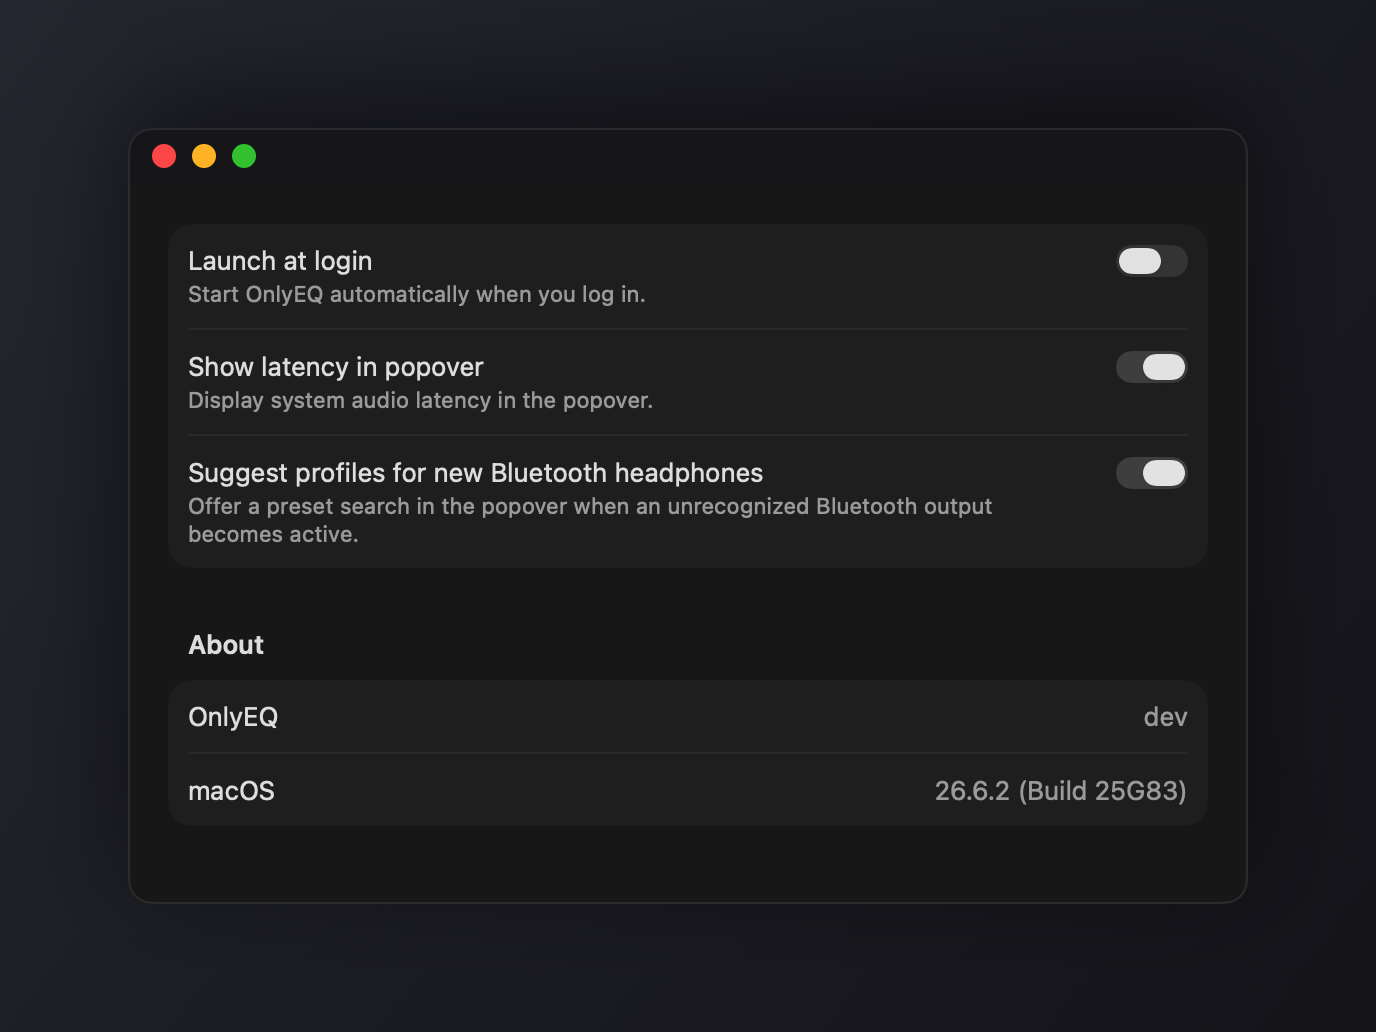
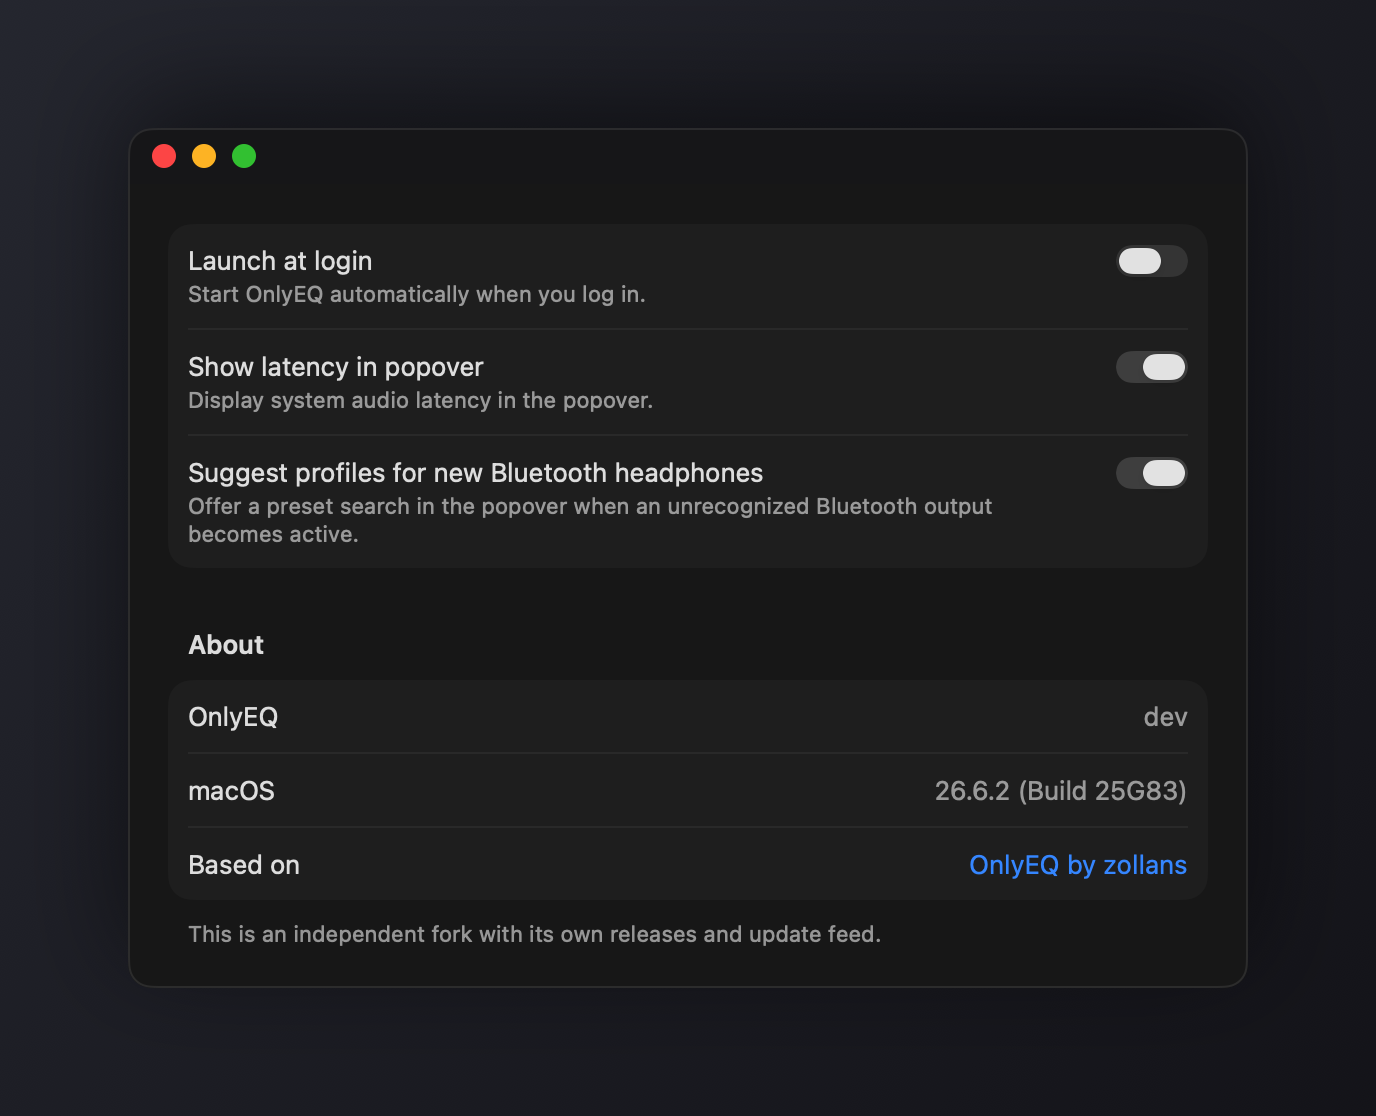
fix: polish the band list, Adjust pane, and About section (1.4.11) (#47)
Add Band drops the new band into the widest gap between the existing
bands on the log axis instead of stacking at 1 kHz. In the Adjust pane
the readouts align on their unit, Reset sits beside the sliders, an
arrow key moves a slider one whole step, and Strength reads "Off" at
zero like the boost fader. The link to the original project in Settings
takes the system link colour.

diff --git a/Sources/OnlyEQ/UI/EditorView.swift b/Sources/OnlyEQ/UI/EditorView.swift
@@ -401,7 +401,7 @@ struct EditorView: View {
 
     private var addBandRow: some View {
         Button {
-            addBand(EQBand(type: .peak, frequency: 1000, gain: 0, q: 1.41))
+            addBand(EQBand(type: .peak, frequency: EQBand.openFrequency(among: state.preset.bands), gain: 0, q: 1.41))
         } label: {
             Label("Add Band", systemImage: "plus")
                 .font(.caption)
@@ -413,7 +413,7 @@ struct EditorView: View {
         }
         .buttonStyle(.plain)
         .disabled(bandLimitReached)
-        .help(bandLimitReached ? "32 bands maximum" : "Add band")
+        .help(bandLimitReached ? "32 bands maximum" : "Add a band in the widest gap between bands")
         .accessibilityLabel("Add band")
     }
 
@@ -516,16 +516,16 @@ struct EditorView: View {
                           actionName: "Change Tilt", format: Self.signedDecibels,
                           help: "Tips the whole response about 1 kHz: up brightens, down warms")
                 adjustRow("Strength", value: strengthPercent, range: 0...100, step: 5,
-                          actionName: "Change Strength", format: { String(format: "%.0f%%", $0) },
+                          actionName: "Change Strength", format: Self.strengthPercentage,
                           help: "How much of the preset's correction is applied")
             }
             .frame(maxWidth: 520)
-            Spacer(minLength: 0)
             Button("Reset") {
                 state.recordingUndo("Reset Adjustments", undoManager) { state.preset.adjustment = .neutral }
             }
             .disabled(state.preset.adjustment.isNeutral)
             .help("Back to the preset as published")
+            Spacer(minLength: 0)
         }
         .controlSize(.small)
         .padding(.horizontal, 24)
@@ -542,8 +542,16 @@ struct EditorView: View {
         value == 0 ? "0.0 dB" : String(format: "%+.1f dB", value)
     }
 
+    /// Reads "Off" at zero, like the boost fader, since none of the bands
+    /// are heard.
+    private static func strengthPercentage(_ value: Double) -> String {
+        value == 0 ? "Off" : String(format: "%.0f%%", value)
+    }
+
     /// A drag is one undo step, registered when the knob is released; a
-    /// keyboard step registers on its own.
+    /// keyboard step registers on its own. The slider's own keyboard
+    /// increment is finer than a step, so a key press moves one step in its
+    /// direction rather than rounding back to where it was.
     private func adjustRow(_ label: String, value: Binding<Double>, range: ClosedRange<Double>, step: Double,
                            actionName: String, format: @escaping (Double) -> String, help: String) -> some View {
         HStack(spacing: 12) {
@@ -555,7 +563,12 @@ struct EditorView: View {
                 value: Binding(
                     get: { value.wrappedValue },
                     set: { updated in
-                        let stepped = (updated / step).rounded() * step
+                        let current = value.wrappedValue
+                        var stepped = (updated / step).rounded() * step
+                        if adjustDragStart == nil, stepped == current, updated != current {
+                            stepped = current + (updated > current ? step : -step)
+                        }
+                        stepped = min(max(stepped, range.lowerBound), range.upperBound)
                         if adjustDragStart == nil {
                             state.recordingUndo(actionName, undoManager) { value.wrappedValue = stepped }
                         } else {
@@ -580,7 +593,7 @@ struct EditorView: View {
             .accessibilityValue(format(value.wrappedValue))
             Text(format(value.wrappedValue))
                 .font(.subheadline.weight(.medium).monospacedDigit())
-                .frame(width: 64, alignment: .leading)
+                .frame(width: 64, alignment: .trailing)
         }
         .help(help)
     }

diff --git a/Sources/OnlyEQ/TestRunner.swift b/Sources/OnlyEQ/TestRunner.swift
@@ -599,6 +599,13 @@ enum TestRunner {
         let old = try JSONDecoder().decode(EQPreset.self, from: Data(legacy.utf8))
         expect(old.adjustment.isNeutral, "a preset saved without an adjustment decodes as neutral")
 
+        expect(EQBand.openFrequency(among: []) == 1000, "an empty preset opens at 1 kHz")
+        expect(EQBand.openFrequency(among: [EQBand(frequency: 100), EQBand(frequency: 10000)]) == 1000,
+               "a new band centres the widest gap")
+        expect(EQBand.openFrequency(among: [EQBand(frequency: 1000)]) == 141, "the widest gap can be below the bands")
+        let crowded = [100.0, 200, 400, 800, 1600, 3200, 6400, 12800].map { EQBand(frequency: $0) }
+        expect(near(EQBand.openFrequency(among: crowded), 45, 1), "a crowded preset opens at its low end")
+
         MainActor.assumeIsolated {
             AppState.screenshotMode = true  // no engine, no persistence
             let state = AppState.shared

diff --git a/Sources/OnlyEQ/Models/EQModels.swift b/Sources/OnlyEQ/Models/EQModels.swift
@@ -57,6 +57,19 @@ struct EQBand: Identifiable, Codable, Equatable, Hashable {
             && lhs.q == rhs.q && lhs.isEnabled == rhs.isEnabled
     }
 
+    /// Where a new band lands: the centre of the widest gap between the
+    /// existing bands on the log-frequency axis, so it never stacks on a
+    /// neighbour. 1 kHz for an empty preset.
+    static func openFrequency(among bands: [EQBand]) -> Double {
+        guard !bands.isEmpty else { return 1000 }
+        let edges = ([20.0, 20000] + bands.map { min(max($0.frequency, 20), 20000) }).map(log10).sorted()
+        var best = (width: 0.0, centre: 3.0)
+        for (low, high) in zip(edges, edges.dropFirst()) where high - low > best.width {
+            best = (high - low, (low + high) / 2)
+        }
+        return (pow(10, best.centre)).rounded()
+    }
+
     func hash(into hasher: inout Hasher) {
         hasher.combine(type)
         hasher.combine(frequency)

diff --git a/Sources/OnlyEQ/UI/SettingsView.swift b/Sources/OnlyEQ/UI/SettingsView.swift
@@ -86,7 +86,6 @@ struct GeneralSettings: View {
                 }
                 LabeledContent("Based on") {
                     Link("OnlyEQ by zollans", destination: URL(string: "https://github.com/zollans/OnlyEQ")!)
-                        .foregroundStyle(.secondary)
                 }
             } header: {
                 Text("About")

diff --git a/DESIGN.md b/DESIGN.md
@@ -264,10 +264,10 @@ Continuous (squircle) corners at 14 pt for the popover panel, 10 pt for the plot
 - A 5 pt radius quaternary 60 % fill with 8 by 3 pt padding and subheadline SF Mono text, showing a global shortcut chord in Settings.
 
 ### Band Row
-- A 22 pt row, 4 pt side padding, 5 pt spacing: an 8 pt colour dot, the band number in caption semibold secondary right-aligned in 16 pt, a borderless type menu in a 72 pt column, then frequency, gain, and Q as 60, 58, and 50 pt value fields (the Q field reads "Q 1.41" so it names itself), and a tertiary delete glyph. Selected: a 5 pt rounded fill of the band colour at 18 %. 50 % opacity when the band is disabled. The last row is Add Band, a plain caption button with a `plus` glyph in secondary.
+- A 22 pt row, 4 pt side padding, 5 pt spacing: an 8 pt colour dot, the band number in caption semibold secondary right-aligned in 16 pt, a borderless type menu in a 72 pt column, then frequency, gain, and Q as 60, 58, and 50 pt value fields (the Q field reads "Q 1.41" so it names itself), and a tertiary delete glyph. Selected: a 5 pt rounded fill of the band colour at 18 %. 50 % opacity when the band is disabled. The last row is Add Band, a plain caption button with a `plus` glyph in secondary; the new band lands at the centre of the widest gap between the existing bands on the log axis, never on a neighbour.
 
 ### Adjust Pane
-- Same 158 pt as the band list, 12 pt vertical padding, rows 8 pt apart and centred. Each row: a 60 pt subheadline secondary label, a small slider, and a 64 pt subheadline medium monospaced readout ("+1.5 dB", "0.0 dB", "85%"). Bass and Treble are ±6 dB shelves at 105 Hz and 2.5 kHz, Tilt is ±6 dB at the ends about 1 kHz, Strength is 0 to 100 % of the bands' gain. A small bordered Reset button trails, disabled when everything is neutral. The graph keeps its handles on the preset's bands and draws the composite of what is heard.
+- Same 158 pt as the band list, 12 pt vertical padding, rows 8 pt apart and centred. Each row: a 60 pt subheadline secondary label, a small slider, and a 64 pt subheadline medium monospaced readout aligned on the unit ("+1.5 dB", "0.0 dB", "85%", "Off" at zero strength). Bass and Treble are ±6 dB shelves at 105 Hz and 2.5 kHz, Tilt is ±6 dB at the ends about 1 kHz, Strength is 0 to 100 % of the bands' gain. A small bordered Reset button sits beside the readouts, disabled when everything is neutral. Arrow keys move a slider one step (0.5 dB, 5 %). The graph keeps its handles on the preset's bands and draws the composite of what is heard.
 
 ### Curve Editor (signature)
 - Log-frequency plot from 20 Hz to 20 kHz. Grid is 1 pt secondary at 12 % dashed 2/3 on octaves; the 0 dB line is 25 %. The composite response is a 2 pt accent stroke over a vertical accent gradient from 35 % to 3 % in the editor and previews; in the popover it is a 1.5 pt line at 90 % with no fill, and the spectrum bars run at 22 % and 85 % height so the music leads and the curve reads over it. In the editor each band draws its own response dashed 4/3 at 22 % in its palette colour. Behind everything, log-spaced spectrum bars in an AppKit layer: input in secondary label colour, output in accent, both at low alpha, with a 10 ms attack and 400 ms release on band power, a 45 ms interpolation at the display rate, and the output shifted by the static gain so only the filter shape shows. Bypass dims the plot to 55 % and eases the response onto the 0 dB line, so the curve settles flat rather than vanishing.

diff --git a/release-notes/1.4.11.md b/release-notes/1.4.11.md
@@ -1,0 +1,5 @@
+# OnlyEQ 1.4.11
+
+- Add Band places the new band in the widest gap between the existing bands instead of always at 1 kHz.
+- Adjust pane: readouts align on their unit, Reset sits beside the sliders, arrow keys move a slider one whole step, and Strength reads "Off" at zero.
+- Settings: the link to the original project looks like a link.
